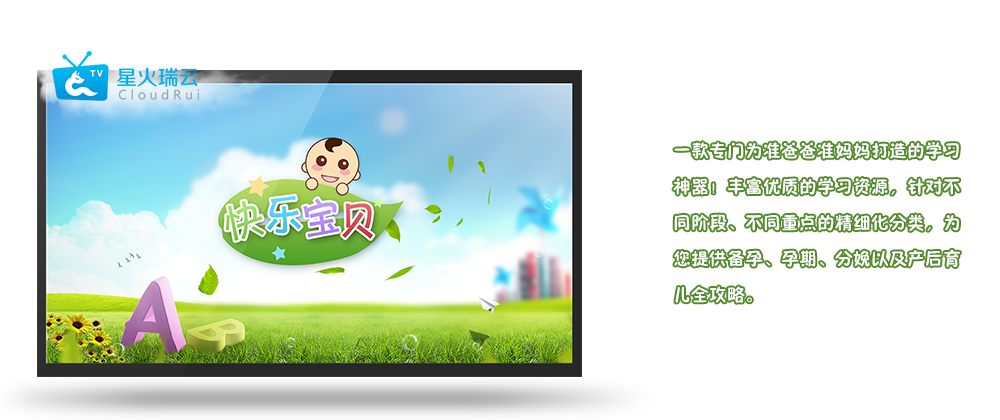
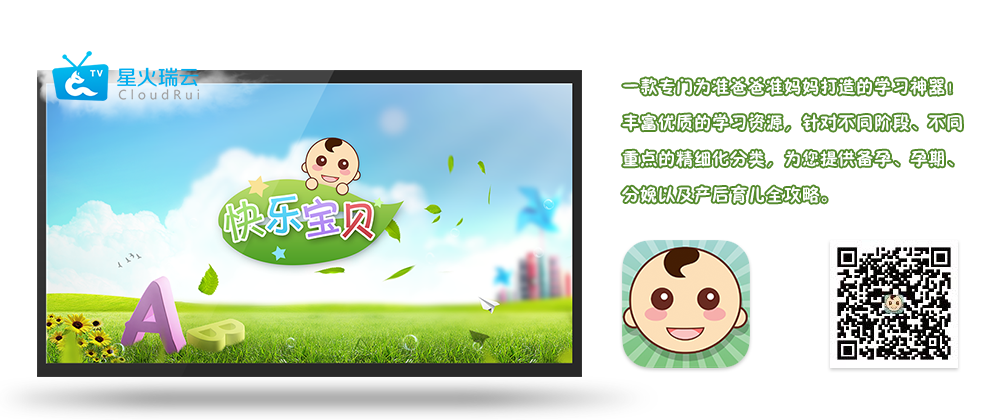
增加二维码扫描

Changed region(s): [[0.62, 0.1857, 0.961, 0.8976]]

diff --git a/happy-baby.html b/happy-baby.html
@@ -51,7 +51,7 @@ $(document).ready(function() {
 		<div class="container">
 			<a href="#"><img name="Android" class="download-button" src="images/button/Android_white.png"></a>
 			<a href="http://longrm.github.io/download/happy-baby_TV.apk" target="_blank"><img name="TV" class="download-button" src="images/button/TV_white.png"></a>
-			<img class="download-button" src="images/happy-baby/icon.png">
+			<!-- <img class="download-button" src="images/happy-baby/icon.png"> -->
 		</div>
 		<img src="images/happy-baby/2.png">
 		<img src="images/happy-baby/3.png">
